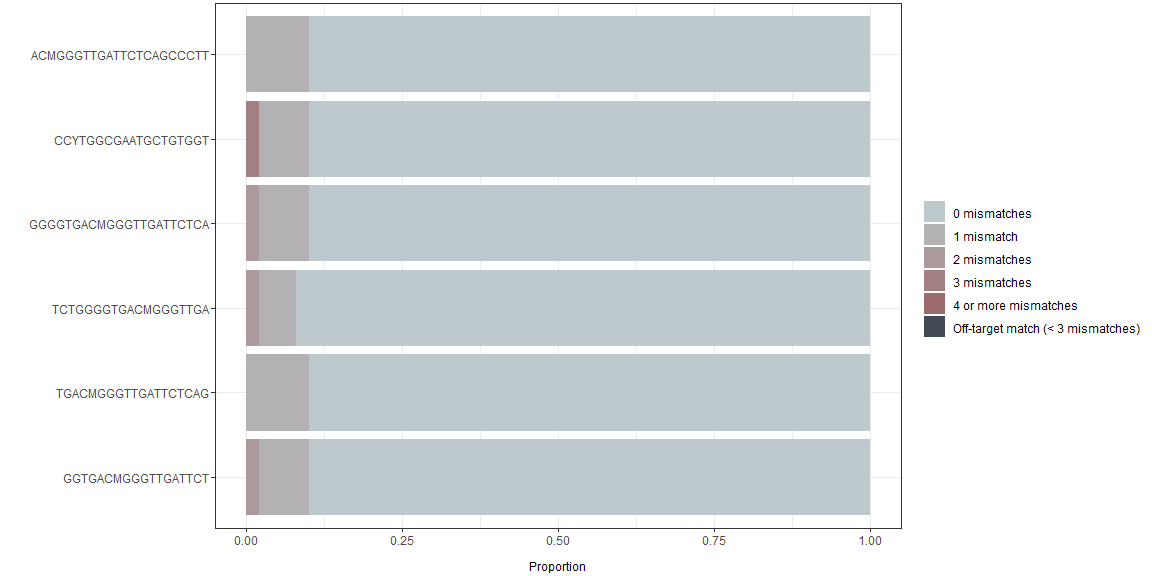
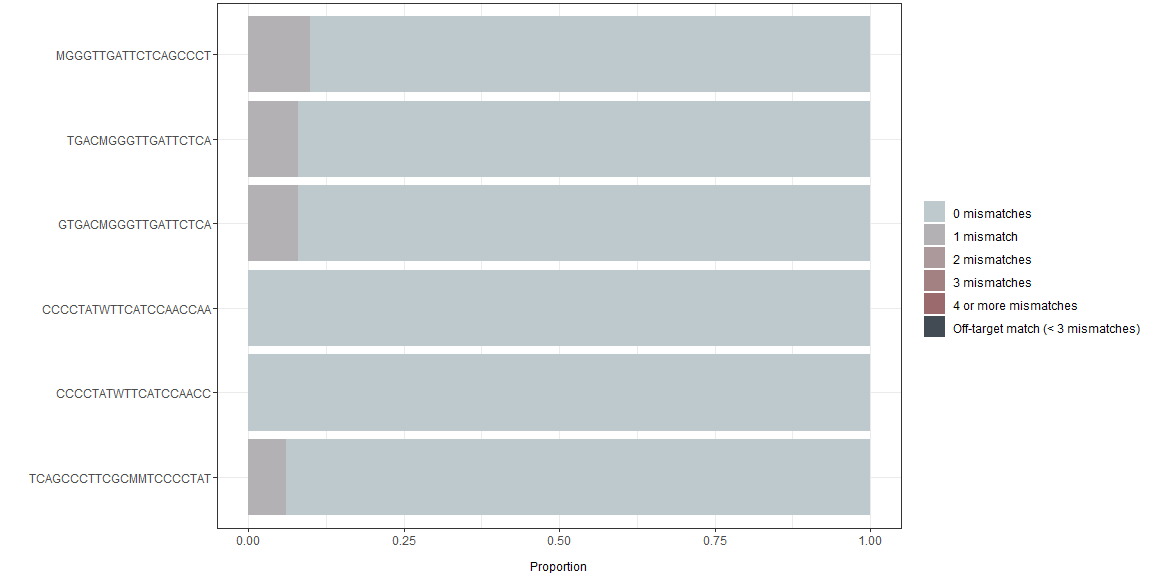
Readme update

diff --git a/README.md b/README.md
@@ -34,11 +34,11 @@ library(rprimer)
 
 The package contains five main functions:
 
--   `consensusProfile()`
--   `designOligos()`
--   `designAssays()`
--   `checkMatch()`
--   `plotData()`
+- `consensusProfile()`
+- `designOligos()`
+- `designAssays()`
+- `checkMatch()`
+- `plotData()`
 
 ## Shiny application
 
@@ -56,8 +56,8 @@ The application can also be found online,
 The first step is to import an alignment with target sequences of
 interest. This is done by using `readDNAMultipleAlignment()`.
 
-The file “example\_alignment.txt” contains an alignment of 50 hepatitis
-E virus sequences.
+The file “example_alignment.txt” contains an alignment of 50 hepatitis E
+virus sequences.
 
 ``` r
 infile <- system.file("extdata", "example_alignment.txt", package = "rprimer")
@@ -173,12 +173,12 @@ Results:
 
 | iupacSequence          | perfectMatch | idPerfectMatch | oneMismatch | idOneMismatch | twoMismatches | idTwoMismatches | threeMismatches | idThreeMismatches | fourOrMoreMismatches | idFourOrMoreMismatches | offTargetMatch | idOffTargetMatch |
 |:-----------------------|-------------:|:---------------|------------:|:--------------|--------------:|:----------------|----------------:|:------------------|---------------------:|:-----------------------|---------------:|:-----------------|
-| ACMGGGTTGATTCTCAGCCCTT |         0.90 | AB073912….     |        0.10 | AB481228….    |          0.00 |                 |            0.00 |                   |                    0 |                        |              0 |                  |
-| CCYTGGCGAATGCTGTGGT    |         0.90 | AB073912….     |        0.08 | KJ701409….    |          0.00 |                 |            0.02 | KJ013415.1        |                    0 |                        |              0 |                  |
-| GGGGTGACMGGGTTGATTCTCA |         0.90 | AB073912….     |        0.08 | BD378055….    |          0.02 | JQ953665.1      |            0.00 |                   |                    0 |                        |              0 |                  |
-| TCTGGGGTGACMGGGTTGA    |         0.92 | AB073912….     |        0.06 | BD378055….    |          0.02 | JQ953665.1      |            0.00 |                   |                    0 |                        |              0 |                  |
-| TGACMGGGTTGATTCTCAG    |         0.90 | AB073912….     |        0.10 | AB481228….    |          0.00 |                 |            0.00 |                   |                    0 |                        |              0 |                  |
-| GGTGACMGGGTTGATTCT     |         0.90 | AB073912….     |        0.08 | BD378055….    |          0.02 | JQ953665.1      |            0.00 |                   |                    0 |                        |              0 |                  |
+| MGGGTTGATTCTCAGCCCT    |         0.90 | AB073912….     |        0.10 | AB481228….    |             0 |                 |               0 |                   |                    0 |                        |              0 |                  |
+| TGACMGGGTTGATTCTCA     |         0.92 | AB073912….     |        0.08 | AB481228….    |             0 |                 |               0 |                   |                    0 |                        |              0 |                  |
+| GTGACMGGGTTGATTCTCA    |         0.92 | AB073912….     |        0.08 | AB481228….    |             0 |                 |               0 |                   |                    0 |                        |              0 |                  |
+| CCCCTATWTTCATCCAACCAA  |         1.00 | AB073912….     |        0.00 |               |             0 |                 |               0 |                   |                    0 |                        |              0 |                  |
+| CCCCTATWTTCATCCAACC    |         1.00 | AB073912….     |        0.00 |               |             0 |                 |               0 |                   |                    0 |                        |              0 |                  |
+| TCAGCCCTTCGCMMTCCCCTAT |         0.94 | AB073912….     |        0.06 | AB481228….    |             0 |                 |               0 |                   |                    0 |                        |              0 |                  |
 
 The match table can be visualized using `plotData()`:
 
@@ -200,3 +200,5 @@ Persson S., Larsson C., Simonsson M., Ellström P. (2022) rprimer: an
 R/bioconductor package for design of degenerate oligos for sequence
 variable viruses. [*BMC Bioinformatics*
 23:239](https://bmcbioinformatics.biomedcentral.com/articles/10.1186/s12859-022-04781-0)
+
+The publication describes version 1.1.0 of the package.
